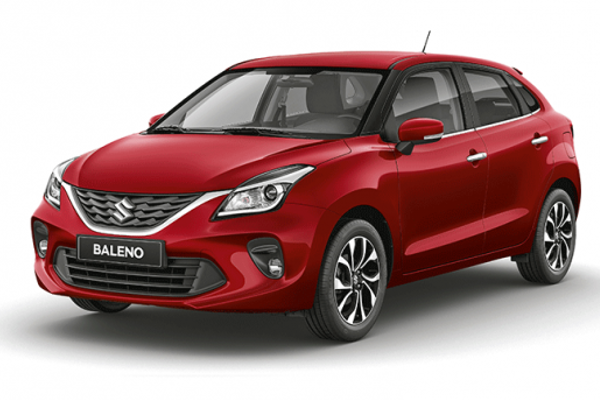
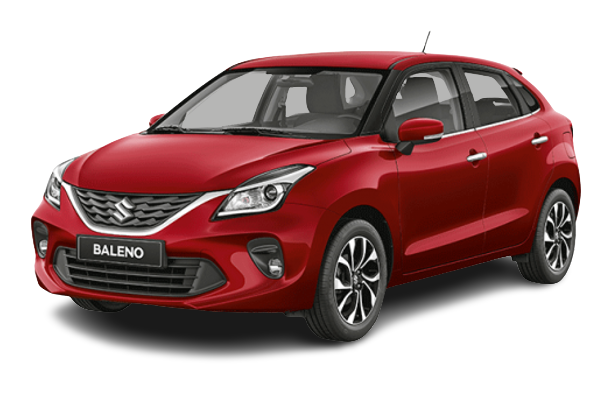
added drop-down and refined the images

diff --git a/cars-rental-app/src/reducers/cars/reducer.js b/cars-rental-app/src/reducers/cars/reducer.js
@@ -1,30 +1,30 @@
 const initialState = {
     cars: [ {id:"1",brand:"Hyundai" ,name:"i10" ,year:"2022",price:"50",img:"1-Hyundai-i10-2022.png" },
-    {id:"2",brand:"Suzuki" ,name:"Dzire" ,year:"2021",price:"60",img:"2-Suzuki-Dzire-2021.jpg"},
-    {id:"3",brand:"Chevrolet" ,name:"Spark" ,year:"2021", price:"50",img:"3-Chevrolet-Spark-2021.jpg" },
-    {id:"4",brand:"Chevrolet" ,name:"Spark",year: "2020",price:"50",img:"4-Chevrolet-Spark-2020.jpg"},{id:"5",brand:"Toyota" ,name:"Yaris" ,year:"2021",price:"70",img:"5-Toyota-Yaris 2021.jpg" },
-    {id:"6",brand:"Suzuki" ,name:"Baleno" ,year:"2021",price:"60",img:"6-Suzuki-Baleno-2021.jpg" },
-    {id:"7",brand:"Suzuki" ,name:"Baleno" ,year:"2020",price:"60",img:"7-Suzuki-Baleno-2020.jpg" },{id:"8",brand:"Kia" ,name:"Pegas" ,year:"2021",price:"60",img:"8-Kia-Pegas-2021.jpg" },
-    {id:"9",brand:"Kia" ,name:"Pegas" ,year:"2020",price:"60",img:"9-Kia-Pegas-2020.jpg" },
-    {id:"10",brand:"Nissan" ,name:"Sunny" ,year:"2022",price:"70",img:"10-Nissan-Sunny-2022.jpg" },{id:"11",brand:"Nissan" ,name:"Sunny",year:"2021",price:"60",img:"11-Nissan-Sunny-2021.jpg" },
-    {id:"12",brand:"Nissan" ,name:"Sunny",year:"2020",price:"60",img:"12-Nissan-Sunny-2020.jpg" },
-    {id:"13",brand:"Hyundai" ,name:"Accent" ,year: "2021",price:"60",img:"13-Hyundai-Accent-2021.jpg"},{id:"14",brand:"Kia" ,name:"Rio" ,year:"2021",price:"60",img:"14-Kia-Rio-2021.jpg" },
-    {id:"15",brand:"Hyundai" ,name:"Elantra" ,year:"2021",price:"70",img:"15-Hyundai Elantra-2021.jpg" },
-    {id:"16",brand:"Kia" ,name:"Cerato" ,year:"2021",price:"70",img:"16-Kia-Cerato-2021.jpg" },{id:"17",brand:"Kia" ,name:"Cerato",year:"2020",price:"70",img:"17-Kia-Cerato-2020.jpg"},
-    {id:"18",brand:"Mazda" ,name:"6" ,year:"2022",price:"100",img:"18-Mazda-6-2022.jpg" },
-    {id:"19",brand:"Chevrolet" ,name:"Malibu" ,year:"2021",price:"110",img:"19-Chevrolet-Malibu-2021.jpg" },{id:"20",brand:"Hyundai" ,name:"Sonata" ,year:"2020",price:"100",img:"20-Hyundai-Sonata-2020.jpg" },
-    {id:"21",brand:"Ford",name:"Taurus" ,year:"2021",price:"150",img:"21-Ford-Taurus-2021.jpg" },
-    {id:"22",brand:"Ford",name:"Taurus",year:"2020",price:"140",img:"22-Ford-Taurus-2020.jpg" },{id:"23",brand:"Rangerover" ,name:"Evoque" ,year: "2021",price:"300",img:"23-Rangerover-Evoque-2021.jpg"},
-    {id:"24",brand:"Volkswagen" ,name:"T-ROC" ,year:"2021",price:"260",img:"24-Volkswagen- T-ROC-2021.jpg" },
-    {id:"25",brand:"Hyundai" ,name:"Kona" ,year:"2021",price:"90",img:"25-Hyundai Kona-2021.jpg" },{id:"26",brand:"Hyundai" ,name:"Creta" ,year:"2021",price:"90",img:"26-Hyundai-Creta-2021.jpg" },
-    {id:"27",brand:"Kia" ,name:"Sportage" ,year: "2021",price:"140",img:"27-Kia-Sportage-2021.jpg"},
-    {id:"28",brand:"Mercedes" ,name:"730" ,year:"2021",price:"360",img:"28-Mercedes-S450 2021.jpg" },{id:"29",brand:"Mercedes" ,name:"S-Class" ,year:"2020",price:"360",img:"29-Mercedes-S-Class-2020.jpg" },
-    {id:"30",brand:"BMW" ,name:"730li" ,year:"2022",price:"600",img:"30-BMW-730LI-2022.jpg" },{id:"31",brand:"BMW" ,name:"730" ,year:"2019",price:"660",img:"31-BMW-730-2019.jpg" },
-    {id:"32",brand:"BMW" ,name:"520i" ,year:"2022",price:"660",img:"32-BMW-520i-2022.jpg" },{id:"33",brand:"BMW" ,name:"520i"  ,year:"2022",price:"460",img:"33-BMW-520i-2022.jpg" },
-    {id:"34",brand:"Audi" ,name:"A6" ,year:"2022",price:"550",img:"34-AUDI-A6-2022.jpg" },{id:"35",brand:"Audi" ,name:"A6",year:"2021",price:"500",img:"35-AUDI-A6-2021.jpg" },
-    {id:"36",brand:"Audi" ,name:"A6",year:"2020",price:"500",img: "36-AUDI-A6-2020.jpg"},{id:"37",brand:"Chevrolet" ,name:"Suburban" ,year:"2021",price:"450",img:"37-Chevrolet-Suburban-2021.jpg" },
-    {id:"38",brand:"Chevrolet" ,name:"Suburban",year:"2020",price:"450",img:"38-Chevrolet Suburban-2020.jpg" },{id:"39",brand:"Chevrolet" ,name:"Tahoe" ,year:"2021",price:"400",img:"39-Chevrolet-Tahoe-2021.jpg" },
-    {id:"40",brand:"Chevrolet" ,name:"Tahoe",year:"2020",price:"400",img:"40-Chevrolet Tahoe-2020.jpg"},]
+    {id:"2",brand:"Suzuki" ,name:"Dzire" ,year:"2021",price:"60",img:"2-Suzuki-Dzire-2021.png"},
+    {id:"3",brand:"Chevrolet" ,name:"Spark" ,year:"2021", price:"50",img:"3-Chevrolet-Spark-2021.png" },
+    {id:"4",brand:"Chevrolet" ,name:"Spark",year: "2020",price:"50",img:"4-Chevrolet-Spark-2020.png"},{id:"5",brand:"Toyota" ,name:"Yaris" ,year:"2021",price:"70",img:"5-Toyota-Yaris 2021.png" },
+    {id:"6",brand:"Suzuki" ,name:"Baleno" ,year:"2021",price:"60",img:"6-Suzuki-Baleno-2021.png" },
+    {id:"7",brand:"Suzuki" ,name:"Baleno" ,year:"2020",price:"60",img:"7-Suzuki-Baleno-2020.png" },{id:"8",brand:"Kia" ,name:"Pegas" ,year:"2021",price:"60",img:"8-Kia-Pegas-2021.png" },
+    {id:"9",brand:"Kia" ,name:"Pegas" ,year:"2020",price:"60",img:"9-Kia-Pegas-2020.png" },
+    {id:"10",brand:"Nissan" ,name:"Sunny" ,year:"2022",price:"70",img:"10-Nissan-Sunny-2022.png" },{id:"11",brand:"Nissan" ,name:"Sunny",year:"2021",price:"60",img:"11-Nissan-Sunny-2021.png" },
+    {id:"12",brand:"Nissan" ,name:"Sunny",year:"2020",price:"60",img:"12-Nissan-Sunny-2020.png" },
+    {id:"13",brand:"Hyundai" ,name:"Accent" ,year: "2021",price:"60",img:"13-Hyundai-Accent-2021.png"},{id:"14",brand:"Kia" ,name:"Rio" ,year:"2021",price:"60",img:"14-Kia-Rio-2021.png" },
+    {id:"15",brand:"Hyundai" ,name:"Elantra" ,year:"2021",price:"70",img:"15-Hyundai Elantra-2021.png" },
+    {id:"16",brand:"Kia" ,name:"Cerato" ,year:"2021",price:"70",img:"16-Kia-Cerato-2021.png" },{id:"17",brand:"Kia" ,name:"Cerato",year:"2020",price:"70",img:"17-Kia-Cerato-2020.png"},
+    {id:"18",brand:"Mazda" ,name:"6" ,year:"2022",price:"100",img:"18-Mazda-6-2022.png" },
+    {id:"19",brand:"Chevrolet" ,name:"Malibu" ,year:"2021",price:"110",img:"19-Chevrolet-Malibu-2021.png" },{id:"20",brand:"Hyundai" ,name:"Sonata" ,year:"2020",price:"100",img:"20-Hyundai-Sonata-2020.png" },
+    {id:"21",brand:"Ford",name:"Taurus" ,year:"2021",price:"150",img:"21-Ford-Taurus-2021.png" },
+    {id:"22",brand:"Ford",name:"Taurus",year:"2020",price:"140",img:"22-Ford-Taurus-2020.png" },{id:"23",brand:"Rangerover" ,name:"Evoque" ,year: "2021",price:"300",img:"23-Rangerover-Evoque-2021.png"},
+    {id:"24",brand:"Volkswagen" ,name:"T-ROC" ,year:"2021",price:"260",img:"24-Volkswagen- T-ROC-2021.png" },
+    {id:"25",brand:"Hyundai" ,name:"Kona" ,year:"2021",price:"90",img:"25-Hyundai Kona-2021.png" },{id:"26",brand:"Hyundai" ,name:"Creta" ,year:"2021",price:"90",img:"26-Hyundai-Creta-2021.png" },
+    {id:"27",brand:"Kia" ,name:"Sportage" ,year: "2021",price:"140",img:"27-Kia-Sportage-2021.png"},
+    {id:"28",brand:"Mercedes" ,name:"730" ,year:"2021",price:"360",img:"28-Mercedes-S450 2021.png" },{id:"29",brand:"Mercedes" ,name:"S-Class" ,year:"2020",price:"360",img:"29-Mercedes-S-Class-2020.png" },
+    {id:"30",brand:"BMW" ,name:"730li" ,year:"2022",price:"600",img:"30-BMW-730LI-2022.png" },{id:"31",brand:"BMW" ,name:"730" ,year:"2019",price:"660",img:"31-BMW-730-2019.png" },
+    {id:"32",brand:"BMW" ,name:"520i" ,year:"2022",price:"660",img:"32-BMW-520i-2022.png" },{id:"33",brand:"BMW" ,name:"520i"  ,year:"2022",price:"460",img:"33-BMW-520i-2022.png" },
+    {id:"34",brand:"Audi" ,name:"A6" ,year:"2022",price:"550",img:"34-AUDI-A6-2022.png" },{id:"35",brand:"Audi" ,name:"A6",year:"2021",price:"500",img:"35-AUDI-A6-2021.png" },
+    {id:"36",brand:"Audi" ,name:"A6",year:"2020",price:"500",img: "36-AUDI-A6-2020.png"},{id:"37",brand:"Chevrolet" ,name:"Suburban" ,year:"2021",price:"450",img:"37-Chevrolet-Suburban-2021.png" },
+    {id:"38",brand:"Chevrolet" ,name:"Suburban",year:"2020",price:"450",img:"38-Chevrolet Suburban-2020.png" },{id:"39",brand:"Chevrolet" ,name:"Tahoe" ,year:"2021",price:"400",img:"39-Chevrolet-Tahoe-2021.png" },
+    {id:"40",brand:"Chevrolet" ,name:"Tahoe",year:"2020",price:"400",img:"40-Chevrolet-Tahoe-2020.png"},]
 }
 
 const carsReducer = (state = initialState , {type, payload}) =>{

diff --git a/cars-rental-app/src/components/Cars.js b/cars-rental-app/src/components/Cars.js
@@ -1,5 +1,6 @@
 import {useSelector} from "react-redux"
 import CarsList from "./CarsList";
+import Dropdown from 'react-bootstrap/Dropdown'
 import "./Cars.css"
 
 function Cars() {
@@ -16,7 +17,21 @@ function Cars() {
     }) } 
 
     return (
+
+
       <div className="car-main-div">
+<div className="Drop-down-div">
+<Dropdown>
+  <Dropdown.Toggle variant="secondary" id="dropdown-basic">
+    Price Sort
+  </Dropdown.Toggle>
+
+  <Dropdown.Menu>
+    <Dropdown.Item href="#/action-1" onClick={() => {console.log("From lowest to highest")}}>From lowest to highest</Dropdown.Item>
+    <Dropdown.Item href="#/action-2" onClick={() => {console.log("From highest to lowest")}}>From highest to lowest </Dropdown.Item>
+  </Dropdown.Menu>
+</Dropdown>
+</div>
       {viewCars()}
       </div>
     );

diff --git a/cars-rental-app/src/components/Cars.css b/cars-rental-app/src/components/Cars.css
@@ -3,3 +3,9 @@
     grid-template-columns: 60%;
     justify-content: center;
 }
+
+.Drop-down-div{
+margin-top: 2%;
+margin-bottom: 2%
+
+}

diff --git a/cars-rental-app/src/components/HeroSection.js b/cars-rental-app/src/components/HeroSection.js
@@ -42,7 +42,7 @@ function HeroSection() {
   </Carousel.Item>
 </Carousel>
 
-      
+  
 
       </>
     );
